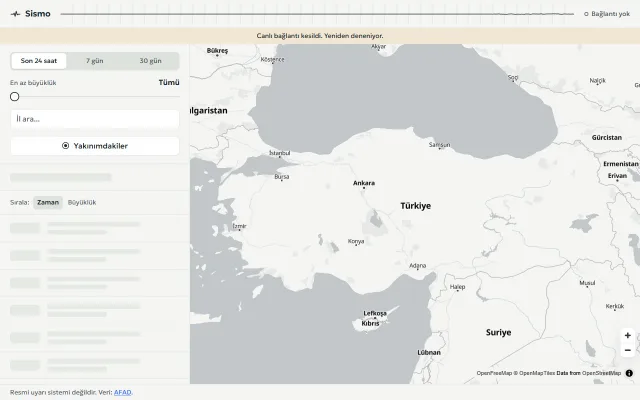
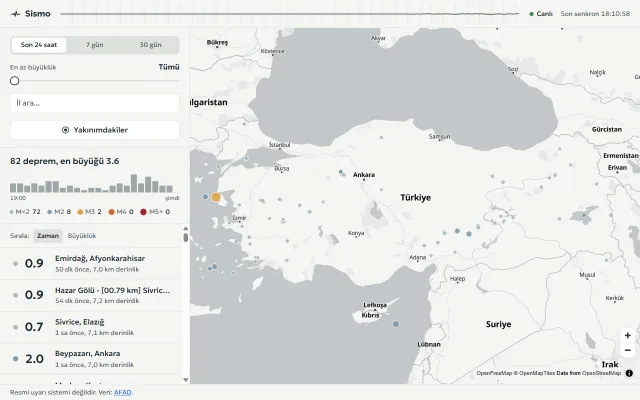
Lup metinleri ve canlı Sismo önizlemesi

diff --git a/src/content/projects.ts b/src/content/projects.ts
@@ -25,15 +25,18 @@ export const projects: Project[] = [
       en: "An animated e-commerce storefront for a fictional jeweler.",
     },
     details: {
-      tr: "Hayali Sönmez Kuyumculuk için hazırlanmış, parçaların sitede büyütülerek yakından incelenebildiği bir vitrin. GSAP ve React ile zengin arayüz animasyonları ve akıcı mikro etkileşimler kuruldu. Tailwind CSS ile tüm ekran boyutlarına uyumlu, performanslı bir arayüz tasarlandı.",
-      en: "A storefront for the fictional Sönmez Kuyumculuk where pieces can be magnified and inspected up close. Rich UI animations and smooth micro-interactions are built with GSAP and React. The interface is responsive and performant across all screen sizes with Tailwind CSS.",
+      tr: "Hayali Sönmez Kuyumculuk için bir vitrin: imleç bir kuyumcu lupuna dönüşüyor ve üzerinden geçtiği parçayı büyütüyor. Her ürünün teknik çizim levhası SVG olarak çiziliyor, bölümler GSAP ve ScrollTrigger ile kaydırmaya bağlı canlanıyor. Tailwind CSS ile tüm ekran boyutlarına uyumlu, performanslı bir arayüz kuruldu.",
+      en: "A storefront for the fictional Sönmez Kuyumculuk: the cursor turns into a jeweler's loupe that magnifies whatever it passes over. Each product has a technical drawing plate rendered in SVG, and sections come alive on scroll with GSAP and ScrollTrigger. The interface is responsive and performant across all screen sizes with Tailwind CSS.",
     },
     solved: {
-      tr: "Kullanıcı deneyimini artıran özel basılı tutma (press-and-hold) etkileşimleri ve dinamik animasyon tetikleyicileri kurguladım.",
-      en: "Designed custom press-and-hold interactions and dynamic animation triggers to enhance the user experience.",
+      tr: "Sayfa içeriğini klonlayıp büyüten özel bir lup imleci, basılı tutma (press-and-hold) etkileşimleri ve ürün sayfasına geçişte fotoğrafın yerinde kaldığı bir View Transitions animasyonu kurguladım.",
+      en: "Built a custom loupe cursor that clones and magnifies page content, press-and-hold interactions, and a View Transitions animation where the photo stays in place while navigating to the product page.",
     },
-    learned: null,
-    stack: ["Next.js", "React", "TypeScript", "GSAP", "Tailwind CSS"],
+    learned: {
+      tr: "GSAP'ı React'e useGSAP ve gsap.matchMedia ile bağlamayı öğrendim: animasyonlar yalnızca hareket izni ve uygun ekran genişliği varken kuruluyor, bileşen kalkınca kendiliğinden temizleniyor. ScrollTrigger ve DrawSVG'yi hidrasyondan sonra ayrı pakette yükleyip ekran altındaki bölümlerin kurulumunu tarayıcı boşta kalana erteleyerek ilk yükü hafif tuttum; Lenis'in akıcı kaydırmasını GSAP'ın kare döngüsüne bağladım.",
+      en: "I learned to wire GSAP into React with useGSAP and gsap.matchMedia: animations are set up only when motion is allowed and the viewport fits, and clean themselves up on unmount. I kept the initial load light by loading ScrollTrigger and DrawSVG in a separate chunk after hydration and deferring below-the-fold setup until the browser is idle, and synced Lenis smooth scrolling to GSAP's ticker.",
+    },
+    stack: ["Next.js", "React", "TypeScript", "GSAP", "Lenis", "Tailwind CSS"],
     year: 2026,
     demoUrl: "https://lup-pied.vercel.app/",
     repoUrl: "https://github.com/cankafali/lup",

diff --git a/DECISIONS.md b/DECISIONS.md
@@ -85,3 +85,5 @@ TASARIM.md'de açık kalan noktalar için verilen kararlar (her biri tek satır)
 - Proje önizlemeleri (`public/projects/*.webp`) canlı demoların 1280×800 ekran görüntüsünden 640×400 WebP (8–20 KB). OG görseli isim ve unvanla yeniden üretildi.
 - Ön-render'daki meta description deseni, Prettier'ın etiketi çok satıra bölmesine dayanıklı hale getirildi.
 - İçerik büyüdüğü için JS 83.5 → 86.3 KB gzip (sınır 90 KB).
+- Sismo backend'i yayına alındıktan sonra önizleme görseli canlı veriyle yeniden çekildi.
+- Lup metinleri repo kodundan yazıldı (useGSAP + gsap.matchMedia, ScrollTrigger/DrawSVG'nin ayrı pakette yüklenmesi, Lenis–GSAP ticker bağlantısı, lup imleci, View Transitions); stack'e Lenis eklendi.
